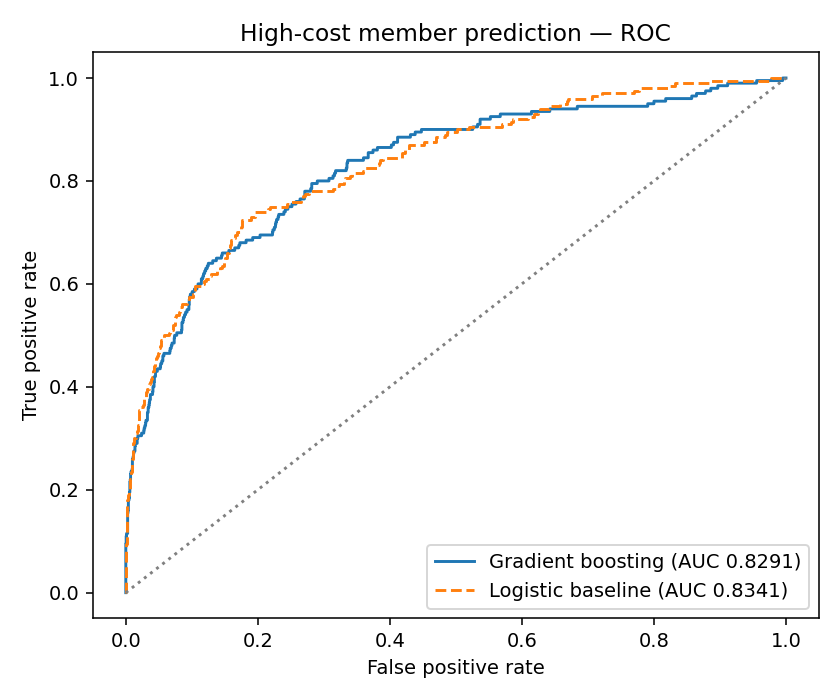
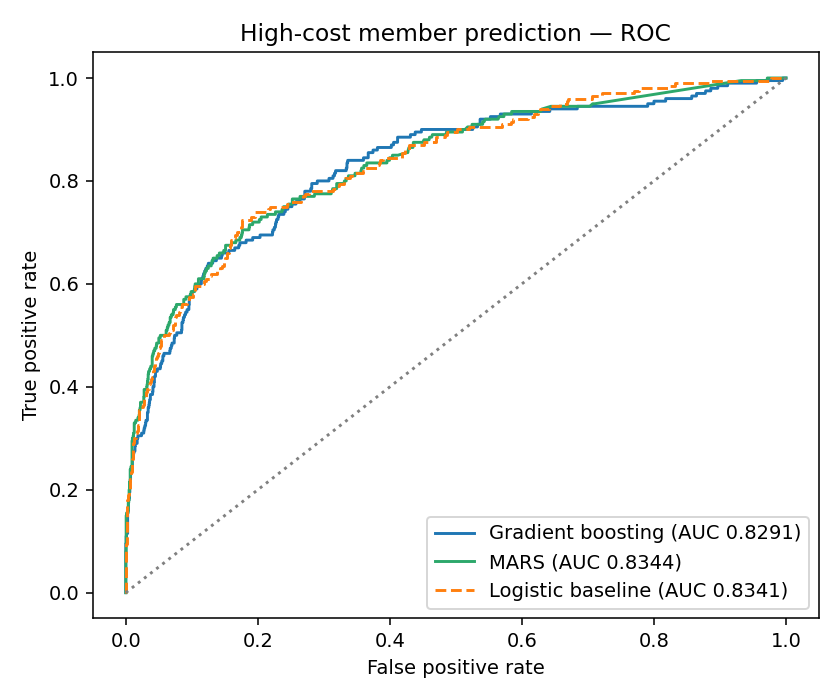
Add from-scratch MARS model (best precision/lift, interpretable); fix truncated README

diff --git a/src/mars.py b/src/mars.py
@@ -1,0 +1,141 @@
+"""Multivariate Adaptive Regression Splines (MARS) — from-scratch implementation.
+
+Implements the additive (degree-1) form of Friedman (1991):
+  1. Forward pass: greedily add mirrored hinge pairs max(0, x-t) / max(0, t-x),
+     choosing the feature/knot that most reduces squared error.
+  2. Backward pass: prune basis functions using generalized cross-validation (GCV).
+
+For the binary high-cost target, basis selection runs on squared error against
+the 0/1 response (the classic MARS-for-classification recipe), and a logistic
+regression is then fit on the selected basis to produce calibrated probabilities.
+
+Why from scratch: the reference package (py-earth) is unmaintained and no longer
+builds against modern numpy/scikit-learn. This implementation keeps the method
+available, sklearn-compatible, and small enough to review line by line.
+"""
+from __future__ import annotations
+
+import numpy as np
+from sklearn.base import BaseEstimator, ClassifierMixin
+from sklearn.linear_model import LogisticRegression
+
+
+class _Hinge:
+    __slots__ = ("feature", "knot", "direction")
+
+    def __init__(self, feature: int, knot: float, direction: int):
+        self.feature = feature      # column index
+        self.knot = knot            # threshold t
+        self.direction = direction  # +1 -> max(0, x - t); -1 -> max(0, t - x)
+
+    def transform(self, X: np.ndarray) -> np.ndarray:
+        z = (X[:, self.feature] - self.knot) * self.direction
+        return np.maximum(z, 0.0)
+
+    def __repr__(self) -> str:
+        return (f"h(x{self.feature} - {self.knot:.3g})" if self.direction == 1
+                else f"h({self.knot:.3g} - x{self.feature})")
+
+
+class MARSClassifier(BaseEstimator, ClassifierMixin):
+    """Additive MARS with logistic output layer.
+
+    Parameters
+    ----------
+    max_terms : forward-pass budget of hinge basis functions (pairs count as 2).
+    n_knots   : candidate knots per feature (quantile grid).
+    penalty   : GCV cost per basis function (Friedman recommends 2-3 for additive).
+    """
+
+    def __init__(self, max_terms: int = 24, n_knots: int = 7, penalty: float = 3.0):
+        self.max_terms = max_terms
+        self.n_knots = n_knots
+        self.penalty = penalty
+
+    # ---------- internals ----------
+    @staticmethod
+    def _lstsq_sse(B: np.ndarray, y: np.ndarray) -> float:
+        coef, _, _, _ = np.linalg.lstsq(B, y, rcond=None)
+        resid = y - B @ coef
+        return float(resid @ resid)
+
+    def _gcv(self, sse: float, n: int, n_basis: int) -> float:
+        # effective params: basis fns + penalty per selected knot
+        c = n_basis + self.penalty * (n_basis - 1) / 2
+        denom = (1 - c / n) ** 2
+        return np.inf if denom <= 0 else sse / (n * denom)
+
+    def _basis_matrix(self, X: np.ndarray, hinges: list[_Hinge]) -> np.ndarray:
+        cols = [np.ones(len(X))] + [h.transform(X) for h in hinges]
+        return np.column_stack(cols)
+
+    # ---------- fitting ----------
+    def fit(self, X, y):
+        X = np.asarray(X, dtype=float)
+        y = np.asarray(y, dtype=float)
+        n = len(y)
+
+        # Candidate knots: interior quantiles per feature (skip constant features)
+        qs = np.linspace(0.1, 0.9, self.n_knots)
+        candidates: list[tuple[int, float]] = []
+        for j in range(X.shape[1]):
+            knots = np.unique(np.quantile(X[:, j], qs))
+            if len(knots) > 1:
+                candidates.extend((j, float(t)) for t in knots)
+
+        # --- Forward pass: add best mirrored hinge pair each iteration ---
+        hinges: list[_Hinge] = []
+        B = np.ones((n, 1))
+        current_sse = self._lstsq_sse(B, y)
+        while len(hinges) < self.max_terms:
+            best = None
+            for j, t in candidates:
+                pair = [_Hinge(j, t, +1), _Hinge(j, t, -1)]
+                trial = np.column_stack([B] + [h.transform(X) for h in pair])
+                sse = self._lstsq_sse(trial, y)
+                if best is None or sse < best[0]:
+                    best = (sse, pair)
+            if best is None or best[0] >= current_sse * (1 - 1e-4):
+                break  # no meaningful improvement
+            current_sse = best[0]
+            hinges.extend(best[1])
+            B = np.column_stack([B] + [h.transform(X) for h in best[1]])
+            # a knot may be reused only via remaining candidates; drop the used one
+            used = (best[1][0].feature, best[1][0].knot)
+            candidates = [c for c in candidates if c != used]
+
+        # --- Backward pass: prune by GCV ---
+        best_set = list(hinges)
+        best_gcv = self._gcv(current_sse, n, len(hinges) + 1)
+        working = list(hinges)
+        while working:
+            scored = []
+            for i in range(len(working)):
+                subset = working[:i] + working[i + 1:]
+                sse = self._lstsq_sse(self._basis_matrix(X, subset), y)
+                scored.append((self._gcv(sse, n, len(subset) + 1), subset))
+            gcv, subset = min(scored, key=lambda s: s[0])
+            working = subset
+            if gcv < best_gcv:
+                best_gcv, best_set = gcv, list(subset)
+
+        self.hinges_ = best_set
+        self.gcv_ = best_gcv
+
+        # --- Logistic output layer on the selected basis ---
+        self._logit = LogisticRegression(max_iter=2000)
+        self._logit.fit(self._basis_matrix(X, self.hinges_)[:, 1:], y.astype(int))
+        self.classes_ = self._logit.classes_
+        return self
+
+    # ---------- inference ----------
+    def predict_proba(self, X):
+        X = np.asarray(X, dtype=float)
+        return self._logit.predict_proba(self._basis_matrix(X, self.hinges_)[:, 1:])
+
+    def predict(self, X):
+        return self.classes_[np.argmax(self.predict_proba(X), axis=1)]
+
+    def describe(self) -> list[str]:
+        """Human-readable selected basis functions (for model review)."""
+        return [repr(h) for h in self.hinges_]

diff --git a/src/train_model.py b/src/train_model.py
@@ -24,6 +24,7 @@ from sklearn.pipeline import make_pipeline
 from sklearn.preprocessing import StandardScaler
 
 from features import feature_columns
+from mars import MARSClassifier
 
 SEED = 42
 
@@ -61,6 +62,11 @@ def train_and_evaluate(feats: pd.DataFrame, fig_dir: str | Path) -> dict:
     model.fit(X_tr, y_tr)
     p = model.predict_proba(X_te)[:, 1]
 
+    # MARS: adaptive hinge basis + logistic output (see src/mars.py)
+    mars = MARSClassifier(max_terms=24, n_knots=7, penalty=3.0)
+    mars.fit(X_tr, y_tr)
+    p_mars = mars.predict_proba(X_te)[:, 1]
+
     results = {
         "n_train": int(len(y_tr)), "n_test": int(len(y_te)),
         "base_rate": round(float(y.mean()), 4),
@@ -76,13 +82,23 @@ def train_and_evaluate(feats: pd.DataFrame, fig_dir: str | Path) -> dict:
             "capture_at_10pct": round(capture_at_k(y_te, p, 0.10), 3),
             "capture_at_20pct": round(capture_at_k(y_te, p, 0.20), 3),
         },
+        "mars": {
+            "roc_auc": round(roc_auc_score(y_te, p_mars), 4),
+            "avg_precision": round(average_precision_score(y_te, p_mars), 4),
+            "lift_at_5pct": round(lift_at_k(y_te, p_mars, 0.05), 2),
+            "capture_at_20pct": round(capture_at_k(y_te, p_mars, 0.20), 3),
+            "n_basis_functions": len(mars.hinges_),
+            "selected_basis": [f"{cols[h.feature]}: {h!r}" for h in mars.hinges_[:12]],
+        },
     }
 
     # --- Figures ---
     fpr_b, tpr_b, _ = roc_curve(y_te, p_base)
     fpr_m, tpr_m, _ = roc_curve(y_te, p)
+    fpr_s, tpr_s, _ = roc_curve(y_te, p_mars)
     plt.figure(figsize=(6, 5))
     plt.plot(fpr_m, tpr_m, label=f"Gradient boosting (AUC {results['gradient_boosting']['roc_auc']})")
+    plt.plot(fpr_s, tpr_s, label=f"MARS (AUC {results['mars']['roc_auc']})", color="#2ca86b")
     plt.plot(fpr_b, tpr_b, "--", label=f"Logistic baseline (AUC {results['baseline_logreg']['roc_auc']})")
     plt.plot([0, 1], [0, 1], ":", color="gray")
     plt.xlabel("False positive rate"); plt.ylabel("True positive rate")
@@ -99,6 +115,7 @@ def train_and_evaluate(feats: pd.DataFrame, fig_dir: str | Path) -> dict:
     ks = np.arange(0.02, 0.52, 0.02)
     plt.figure(figsize=(6.5, 5))
     plt.plot(ks * 100, [capture_at_k(y_te, p, k) * 100 for k in ks], label="Gradient boosting")
+    plt.plot(ks * 100, [capture_at_k(y_te, p_mars, k) * 100 for k in ks], label="MARS", color="#2ca86b")
     plt.plot(ks * 100, [capture_at_k(y_te, p_base, k) * 100 for k in ks], "--", label="Logistic baseline")
     plt.plot(ks * 100, ks * 100, ":", color="gray", label="Random targeting")
     plt.xlabel("% of members targeted (ranked by model score)")

diff --git a/README.md b/README.md
@@ -11,11 +11,12 @@ This repo models the core analytics loop behind payer cost-of-care and populatio
 | | |
 |---|---|
 | Prediction task | Top-decile year-2 cost, from year-1 signals only |
+| Best model | MARS — implemented from scratch ([src/mars.py](src/mars.py)) |
 | ROC-AUC (held-out) | 0.83 |
-| Lift @ top 5% targeted | 6.1x base rate |
+| Lift @ top 5% targeted | 6.7x base rate |
 | High-cost members captured @ 20% targeted | 66% |
 
-Full findings — including why the logistic baseline beats gradient boosting here and what that means for client recommendations — in **[reports/INSIGHTS.md](reports/INSIGHTS.md)**.
+Three models are compared: a logistic baseline, gradient boosting, and **multivariate adaptive regression splines (MARS)** — implemented from scratch (forward hinge-knot selection, GCV backward pruning, logistic output layer) because the reference package no longer builds on modern Python. MARS wins on precision and lift while remaining fully interpretable: its entire decision logic is 12 readable hinge functions. Full findings in **[reports/INSIGHTS.md](reports/INSIGHTS.md)**.
 
 ![Gain curve](reports/figures/gain_curve.png)
 
@@ -34,7 +35,8 @@ One command regenerates everything: data (seeded, reproducible), features, model
 src/
 ├── generate_data.py     # synthetic members, 2 years of claim lines, zip-level SDOH
 ├── features.py          # utilization, clinical burden, SDOH feature engineering
-├── train_model.py       # baseline + GBM, lift/capture metrics, figures
+├── mars.py              # MARS from scratch: hinge basis, forward pass, GCV pruning
+├── train_model.py       # baseline + GBM + MARS, lift/capture metrics, figures
 ├── quality_measures.py  # HEDIS-inspired measures (eligible pop → numerator → rate)
 └── run_pipeline.py      # end-to-end orchestration
 reports/
@@ -49,4 +51,13 @@ reports/
 - **Prospective framing.** Features come exclusively from year 1; the target is year 2. No leakage, mirroring how care-management targeting actually deploys.
 - **Business metrics over ML metrics.** Lift and capture at realistic targeting budgets (5–20%) are what determine program ROI; AUC is reported but doesn't drive the recommendation.
 - **SDOH as a segmentation story.** Zip-level deprivation indices are integrated as features, and the insights report is explicit about where they do and don't add value.
-- **Honest model selection.** The simpler baseline wins on this data, and the report says so — explainability matters when the audience is 
+- **Honest model selection.** The interpretable models beat gradient boosting on this data, and the report says so — explainability matters when the audience is a Chief Actuary. MARS is recommended because its hinge knots double as presentation-ready risk thresholds.
+- **Quality measures follow the HEDIS pattern** (eligible population → numerator → rate, segmented by plan type) with clear disclaimers: these are illustrative proxies, not certified NCQA logic.
+
+## Data & compliance
+
+All data is synthetic, generated in `generate_data.py` with a fixed seed. No real member data, PHI, or licensed value sets are used or represented.
+
+---
+
+*Francis Oluwatobi · [email redacted]*

diff --git a/reports/INSIGHTS.md b/reports/INSIGHTS.md
@@ -8,15 +8,14 @@ Using only year-1 claims utilization, demographics, chronic-condition flags, and
 
 ## Model performance (held-out test set, n=2,000)
 
-| Metric | Logistic baseline | Gradient boosting |
-|---|---|---|
-| ROC-AUC | **0.834** | 0.829 |
-| Average precision | **0.516** | 0.492 |
-| Lift @ top 5% | — | 6.1x |
-| Capture @ top 10% | — | 46.5% |
-| Capture @ top 20% | — | 66.0% |
+| Metric | Logistic baseline | Gradient boosting | MARS |
+|---|---|---|---|
+| ROC-AUC | 0.834 | 0.829 | **0.834** |
+| Average precision | 0.516 | 0.492 | **0.525** |
+| Lift @ top 5% | — | 6.1x | **6.7x** |
+| Capture @ top 20% | — | 66.0% | **66.5%** |
 
-**An honest finding worth leading with:** the regularized logistic baseline slightly outperforms gradient boosting on AUC. On this data, prior-year utilization is such a dominant, near-linear signal that model complexity buys little. In a client setting this is the recommendation: deploy the simpler, more explainable model, and invest the complexity budget in better features (lab values, pharmacy adherence, prior-auth history) rather than better algorithms. Chasing decimal points of AUC with black-box models is how analytics teams lose Chief Actuaries.
+**An honest finding worth leading with:** the two simpler models beat gradient boosting. Prior-year utilization is such a dominant, near-linear signal here that black-box complexity buys nothing. The recommended model is MARS (multivariate adaptive regression splines, implemented from scratch in `src/mars.py`): it matches the logistic baseline on AUC, wins on precision and lift, and its entire decision logic is 12 human-readable hinge functions — e.g., risk inflects above ~$1,350 in year-1 pharmacy spend, past age 44, and at the first chronic condition. Those knots aren't just model internals; they're presentation-ready thresholds a Chief Actuary can interrogate. Chasing decimal points of AUC with unexplainable models is how analytics teams lose that room.
 
 ## What drives risk
 